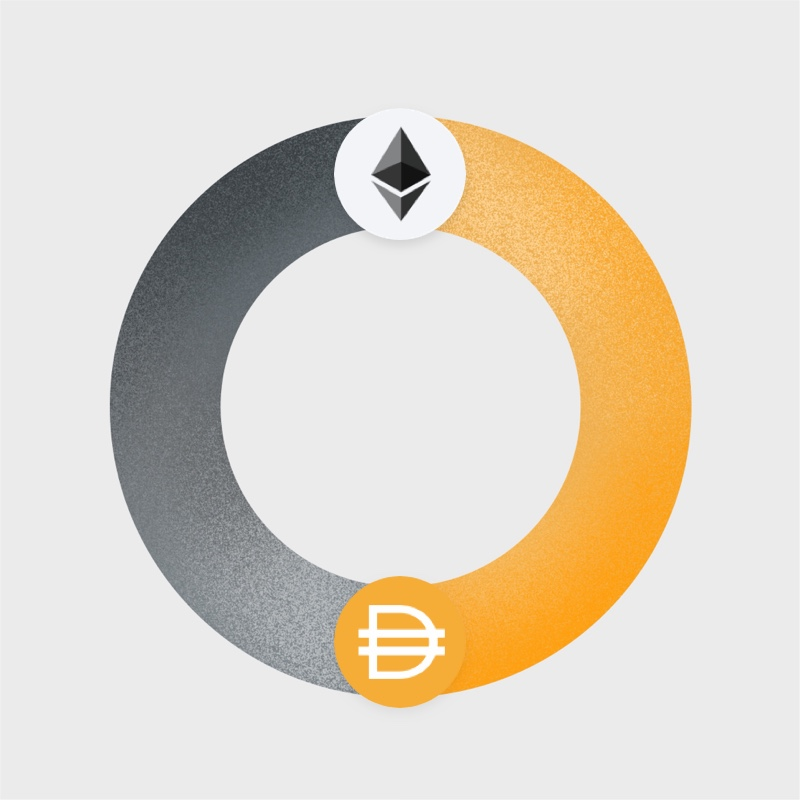
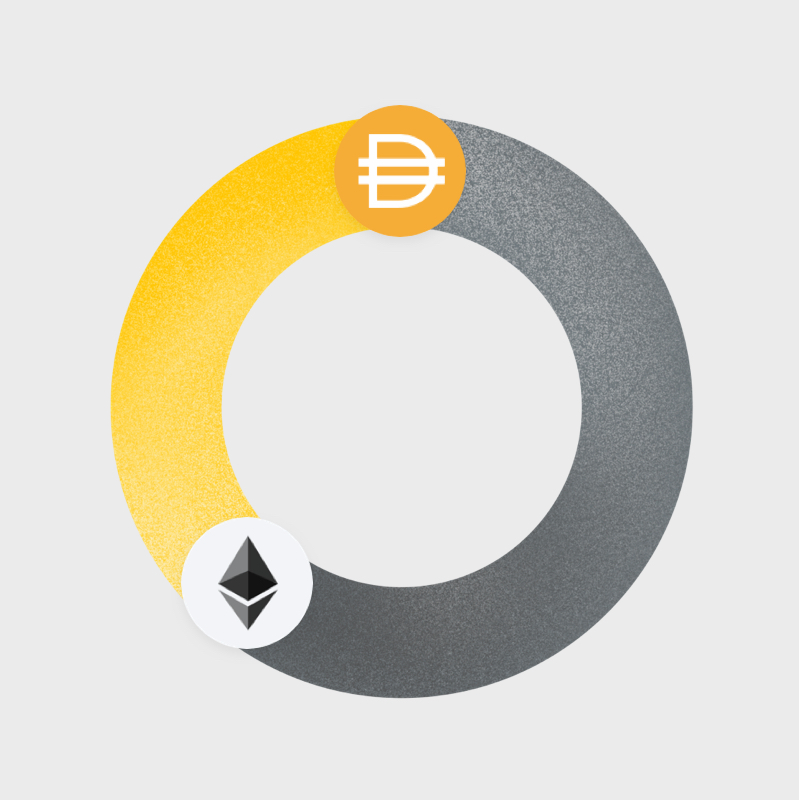
Updated featured pool to WETH DAI 60-40 as per Markus

Changed region(s): [[0.125, 0.125, 0.875, 0.9062]]

diff --git a/components/pages/home/ForInvestors.vue b/components/pages/home/ForInvestors.vue
@@ -106,7 +106,7 @@
                 </div>
               </a>
               <a
-                href="https://app.balancer.fi/#/pool/0x571046eae58c783f29f95adba17dd561af8a871200020000000000000000000c"
+                href="https://app.balancer.fi/#/pool/0x0b09dea16768f0799065c475be02919503cb2a3500020000000000000000001a"
               >
                 <div class="pool relative">
                   <div class="image-container">
@@ -118,7 +118,7 @@
                   </div>
                   <div>
                     <div class="p-2 md:p-3 text-center font-medium">
-                      <p class="text-label">50 WETH 50 DAI</p>
+                      <p class="text-label">60 WETH 40 DAI</p>
                     </div>
                   </div>
                 </div>
